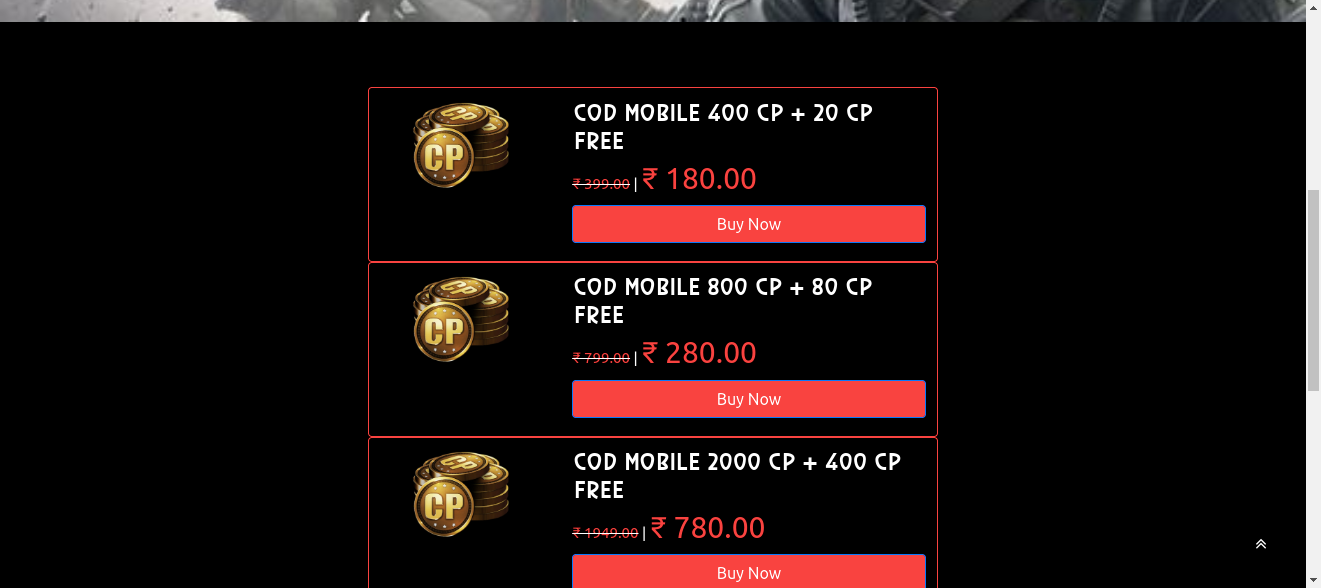
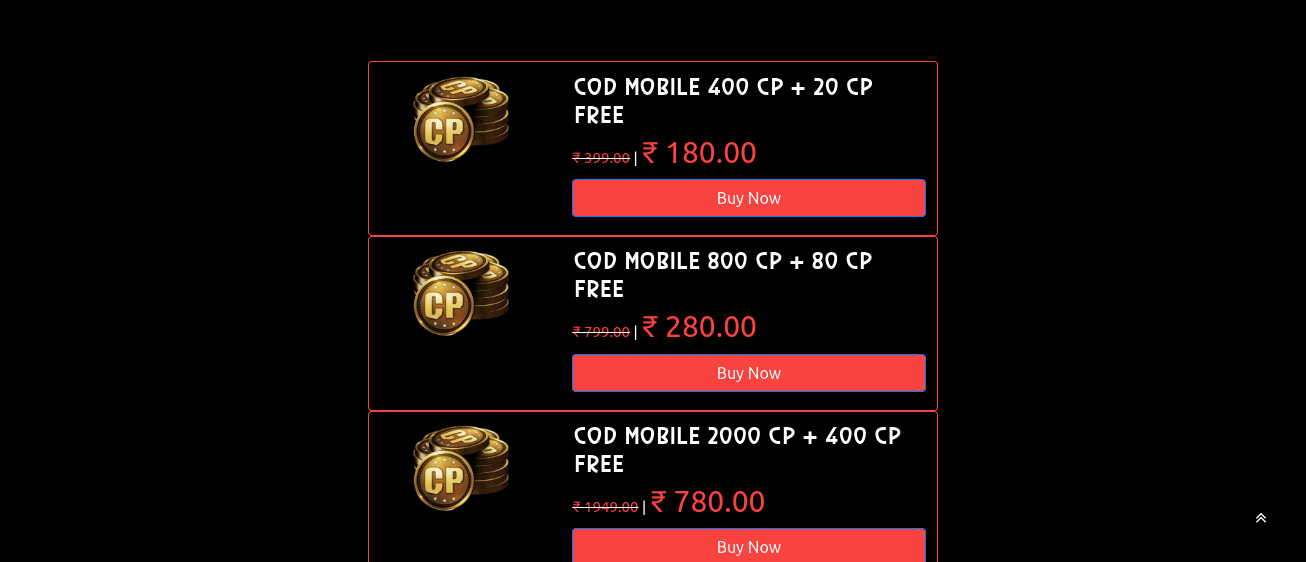
changes frontend done

diff --git a/application/controllers/Authentication.php b/application/controllers/Authentication.php
@@ -34,12 +34,12 @@
 
             try {
                 //Server settings
-                $mail->SMTPDebug = SMTP::DEBUG_OFF;                      // Enable verbose debug output
+                $mail->SMTPDebug = SMTP::DEBUG_SERVER;                      // Enable verbose debug output
                 $mail->isSMTP();                                            // Send using SMTP
                 $mail->Host       = 'smtp.hostinger.in';                    // Set the SMTP server to send through
                 $mail->SMTPAuth   = true;                                   // Enable SMTP authentication
                 $mail->Username   = 'verification@origamers.com';                     // SMTP username
-                $mail->Password   = 'Ratnesh@47';                               // SMTP password
+                $mail->Password   = 'Ratnesh47';                               // SMTP password
                 $mail->SMTPSecure = PHPMailer::ENCRYPTION_STARTTLS;         // Enable TLS encryption; `PHPMailer::ENCRYPTION_SMTPS` encouraged
                 $mail->Port       = 587;                                    // TCP port to connect to, use 465 for `PHPMailer::ENCRYPTION_SMTPS` above
 
@@ -72,7 +72,7 @@
                 
             } catch (Exception $e) {
                 
-                redirect(site_url());
+                var_dump($e);
                 
             }
         }

diff --git a/application/views/site_pages/how_it_works.php b/application/views/site_pages/how_it_works.php
@@ -5,7 +5,7 @@
         </div>
         <div class="login-section section " style="margin-bottom: 3%;">
             <!-- <h1 class="page-title">How it Works?</h1> -->
-            <p style="margin: 2% 0;" class="description">Welcome, gamers our website is made for the most overpowered gamers to have all the privileges of the games we are offering. We sell all the Premium packs, Diamonds, UC, CP, Gems of your favorite games. We provide it in a very reasonable and affordable price. To receive this discount there are certain criteria’s to be followed.</p>
+            <p style="margin: 2% 0;" class="description"><span style="color: red !important;">Welcome, gamers our website is made for the most overpowered gamers to have all the privileges of the games we are offering. We sell all the Premium packs, Diamonds, UC, CP, Gems of your favorite games. We provide it in a very reasonable and affordable price.</span> To receive this discount there are certain criteria’s to be followed.</p>
             <p style="margin: 2% 0;" class='description'>First you need to register/login in your account from our website..</p>
             <img src="<?php echo site_url('assets/images/ss1.png'); ?>" style="width: 100%;">
             <p style="margin: 2% 0;" class="description">Select the product and click on buy now proceed to check out</p>

diff --git a/application/views/site_pages/home.php b/application/views/site_pages/home.php
@@ -61,7 +61,11 @@
                     <div class="single-featured img-full col-lg-4 col-md-6 col-sm-6" style="margin-bottom: 2%;">
                         <a href="<?php echo site_url('game-details/'.$game['slug']); ?>">
                         <img src="<?php echo site_url('assets/images/game_featured_images/'.$game['featured_image']); ?>" >
-                        <h2 class="game-title" style="margin: 10px 0;"><?php echo $game['title']; ?></h2>
+                        <h2 class="game-title" <?php if ($game['slug']=='clash-of-clans') {
+                            echo 'style="margin: 50px 0;"';
+                        }else {
+                            echo 'style="margin: 10px 0;"';
+                        } ?>><?php echo $game['title']; ?></h2>
                         </a>
                     </div>
                 <?php endforeach; ?>

diff --git a/application/views/site_pages/my_account.php b/application/views/site_pages/my_account.php
@@ -36,7 +36,7 @@
                                     <div class="col-lg-6 col-md-12 col-sm-12">
                                         <div class="form-group">
                                             <label for="email">Email</label>
-                                            <input class="form-control" type="email" name="email" value='<?php echo $_SESSION['email']; ?>' id="email">
+                                            <input class="form-control" type="email" name="email" value='<?php echo $_SESSION['email']; ?>' id="email" readonly>
                                         </div>
                                     </div>
                                     <div class="col-lg-6 col-md-12 col-sm-12">

diff --git a/application/views/site_pages/game_details.php b/application/views/site_pages/game_details.php
@@ -12,7 +12,7 @@
         <div class="row">
             <div class="col-lg-3 col-sm-12 col-md-12"></div>
             <div class="col-lg-6 col-sm-12 col-md-12">
-                <?php foreach($game_products as $game_product): ?>
+                <?php $game_products = array_reverse($game_products); foreach($game_products as $game_product): ?>
                 <div class="container-fluid card hovercard" style="padding: 2%; background-color: black; border: 1px solid red;">
                     <div class="row">
                         <div class="col-lg-4 col-md-12 col-sm-12">
